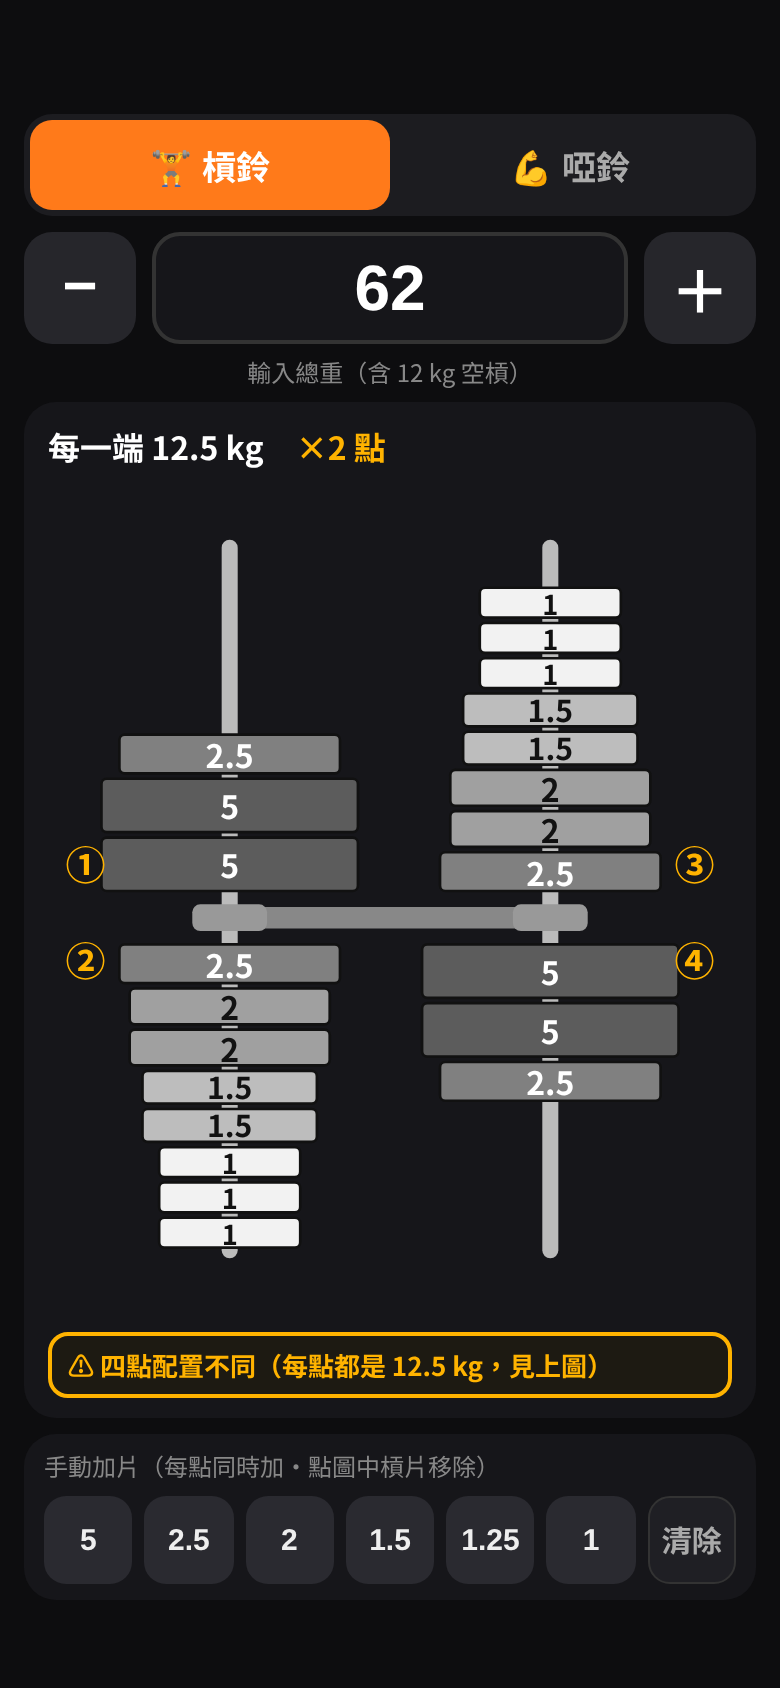
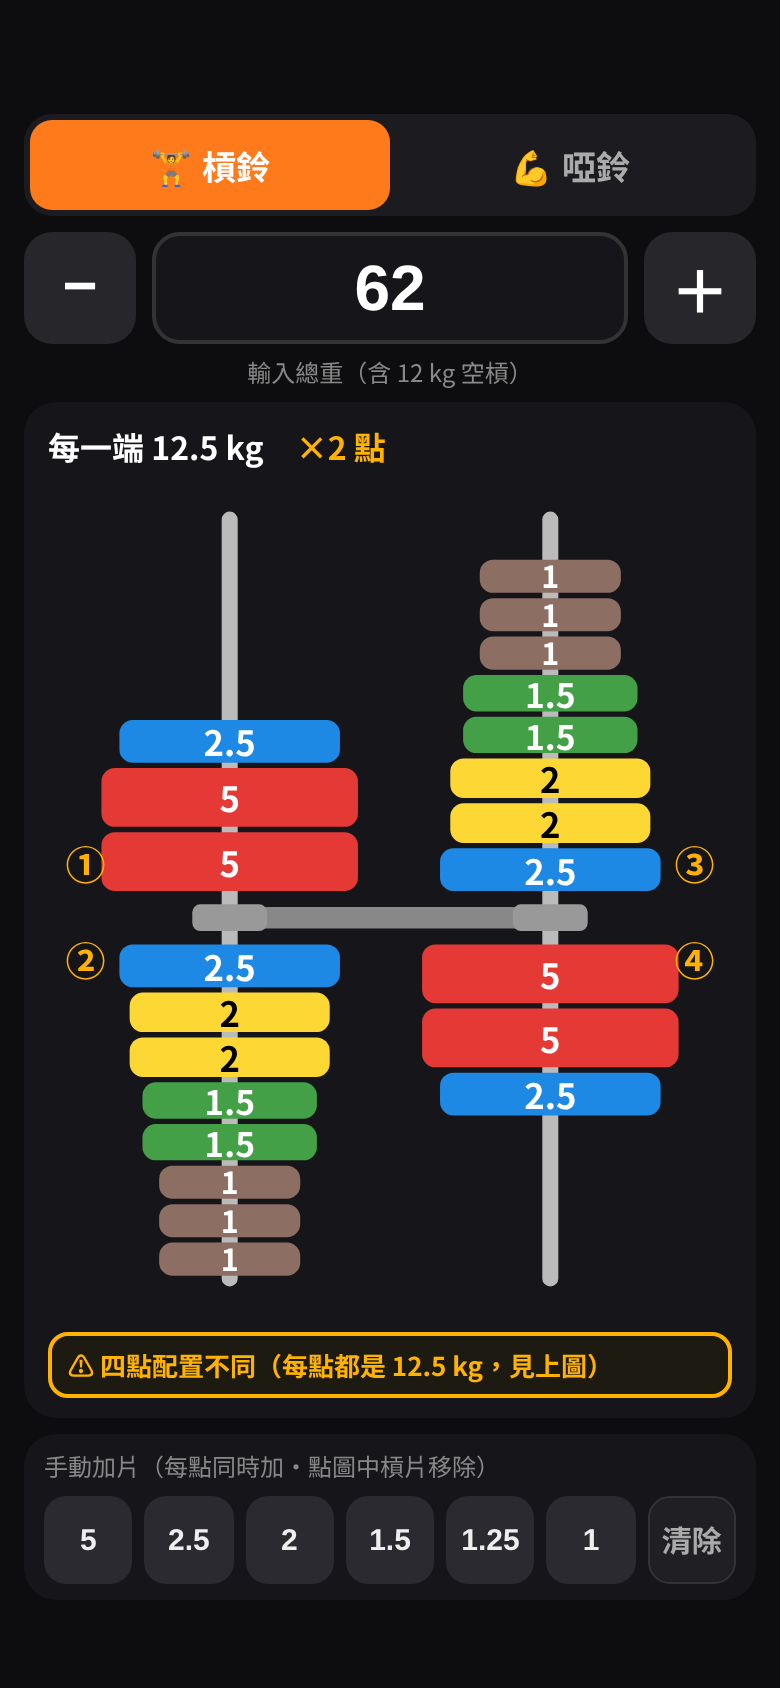
H plan in original palette, v16

diff --git a/index.html b/index.html
@@ -42,7 +42,7 @@ svg rect.pl{cursor:pointer}
 <div class="tog"><button id="bb" class="on">🏋 槓鈴</button><button id="db">💪 啞鈴</button></div>
 <div class="in"><button id="mn">−</button><input id="w" inputmode="decimal" value="42"><button id="pl">＋</button></div>
 <div class="hint" id="hint"></div><div class="card" id="out"></div><div class="bld"><div class="lb">手動加片（每點同時加・點圖中槓片移除）</div><div class="pbs" id="pbs"></div></div>
-<script src="data.js?v=15"></script><script>
+<script src="data.js?v=16"></script><script>
 const P=[[1,'#8d6e63','1',.55],[1.25,'#9e9e9e','1.25',.6],[1.5,'#43a047','1.5',.68],[2,'#fdd835','2',.78],[2.5,'#1e88e5','2.5',.86],[5,'#e53935','5',1]];
 let eq='槓鈴';const $=id=>document.getElementById(id),W=$('w');
 const T=x=>+(2*x).toFixed(2),tot=t=>eq==='啞鈴'?`<div class="tot">兩支合計 ${t} kg</div>`:'';
@@ -92,10 +92,10 @@ function hshape(groups,cy,H,mid,lab){/* groups: [leftInner,leftOuter?] [rightInn
  let x=cx0-10;L.forEach((c,k)=>{const [g,w]=grp(c,x,-1,cy,H);const ww=Math.max(w,14);s+=g+`<text x="${x-ww/2}" y="${cy+H/2+14}" fill="#ffb300" font-size="13" font-weight="800" text-anchor="middle">${lab[0][k]}</text>`;x-=ww+12});
  x=cx1+10;R.forEach((c,k)=>{const [g,w]=grp(c,x,1,cy,H);const ww=Math.max(w,14);s+=g+`<text x="${x+ww/2}" y="${cy+H/2+14}" fill="#ffb300" font-size="13" font-weight="800" text-anchor="middle">${lab[1][k]}</text>`;x+=ww+12});
  return [s,W]}
-function vstack(c,cx,y0,dir,PW){let y=y0,s='';plates(c).forEach(p=>{const i=P.indexOf(p),h=9+p[0]*2.2,w=PW*p[3],Y=dir>0?y:y-h;
- s+=`<rect class="pl" onclick="rm(${i})" x="${cx-w/2}" y="${Y}" width="${w}" height="${h}" rx="2" fill="${GR[i]}" stroke="#111" stroke-width="1"/><text x="${cx}" y="${Y+h/2}" fill="${i>=4?'#fff':'#111'}" font-size="${Math.min(12,h-1)}" font-weight="800" text-anchor="middle" dominant-baseline="central">${p[2]}</text>`;y+=dir*(h+2)});return [s,Math.abs(y-y0)]}
+function vstack(c,cx,y0,dir,PW){let y=y0,s='';plates(c).forEach(p=>{const i=P.indexOf(p),h=10+p[0]*2.4,w=PW*p[3],Y=dir>0?y:y-h;
+ s+=`<rect class="pl" onclick="rm(${i})" x="${cx-w/2}" y="${Y}" width="${w}" height="${h}" rx="5" fill="${P[i][1]}"/><text x="${cx}" y="${Y+h/2}" fill="${i==3?'#000':'#fff'}" font-size="${Math.min(13,h-1)}" font-weight="800" text-anchor="middle" dominant-baseline="central">${p[2]}</text>`;y+=dir*(h+2)});return [s,Math.abs(y-y0)]}
 function plan(pts){
- if(eq==='槓鈴'){const PW=96,mid=120,meas=c=>plates(c).reduce((a,p)=>a+9+p[0]*2.2+2,0),up=Math.max(meas(pts[0]),meas(pts[2]),20),dn=Math.max(meas(pts[1]),meas(pts[3]),20);
+ if(eq==='槓鈴'){const PW=96,mid=120,meas=c=>plates(c).reduce((a,p)=>a+10+p[0]*2.4+2,0),up=Math.max(meas(pts[0]),meas(pts[2]),20),dn=Math.max(meas(pts[1]),meas(pts[3]),20);
   const xl=PW/2+20,xr=xl+mid,W=xr+PW/2+20,cy=22+up+12,Hh=cy+12+dn+8;let s='';
   s+=`<rect x="${xl}" y="${cy-4}" width="${mid}" height="8" rx="3" fill="#888"/>`;
   [xl,xr].forEach(x=>s+=`<rect x="${x-3}" y="8" width="6" height="${Hh-16}" rx="3" fill="#bbb"/><rect x="${x-14}" y="${cy-5}" width="28" height="10" rx="3" fill="#999"/>`);

diff --git a/sw.js b/sw.js
@@ -1,4 +1,4 @@
-const C='plates-v15',F=['./','index.html','data.js?v=15','manifest.json','icon-v8-180.png','apple-touch-icon.png','icon-192.png','icon-v8-512.png'];
+const C='plates-v16',F=['./','index.html','data.js?v=16','manifest.json','icon-v8-180.png','apple-touch-icon.png','icon-192.png','icon-v8-512.png'];
 self.addEventListener('install',e=>{self.skipWaiting();e.waitUntil(caches.open(C).then(c=>c.addAll(F)))});
 self.addEventListener('activate',e=>e.waitUntil(caches.keys().then(ks=>Promise.all(ks.filter(k=>k!==C).map(k=>caches.delete(k)))).then(()=>self.clients.claim())));
 self.addEventListener('fetch',e=>{const u=new URL(e.request.url);if(e.request.method!=='GET'||u.origin!==location.origin)return;
